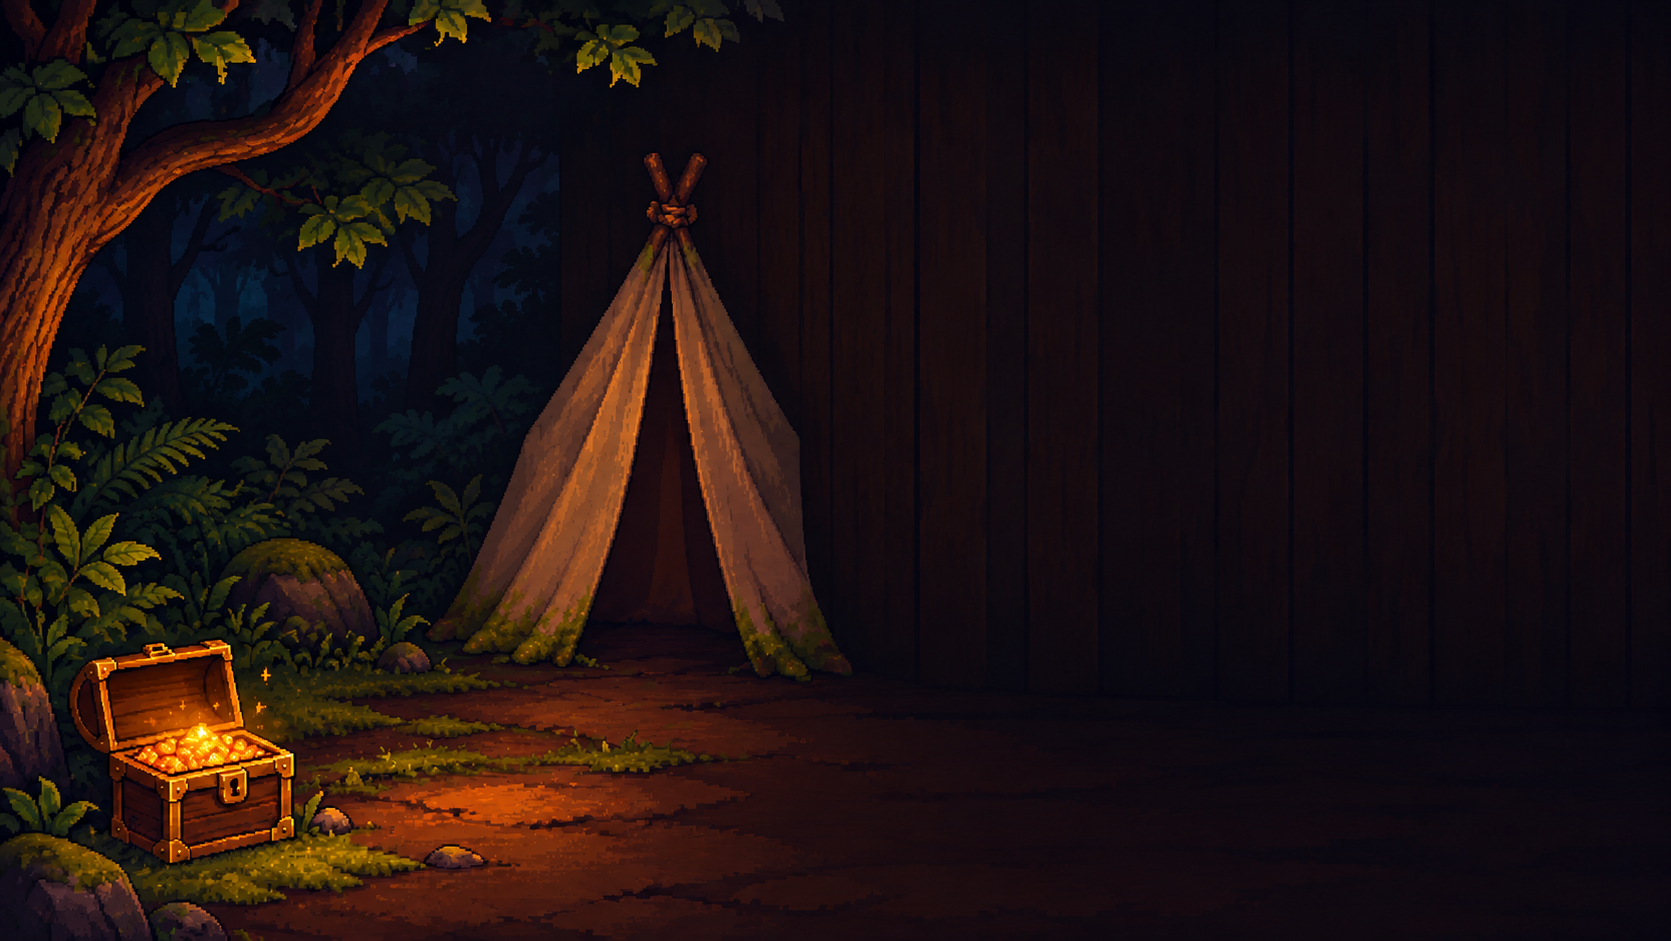
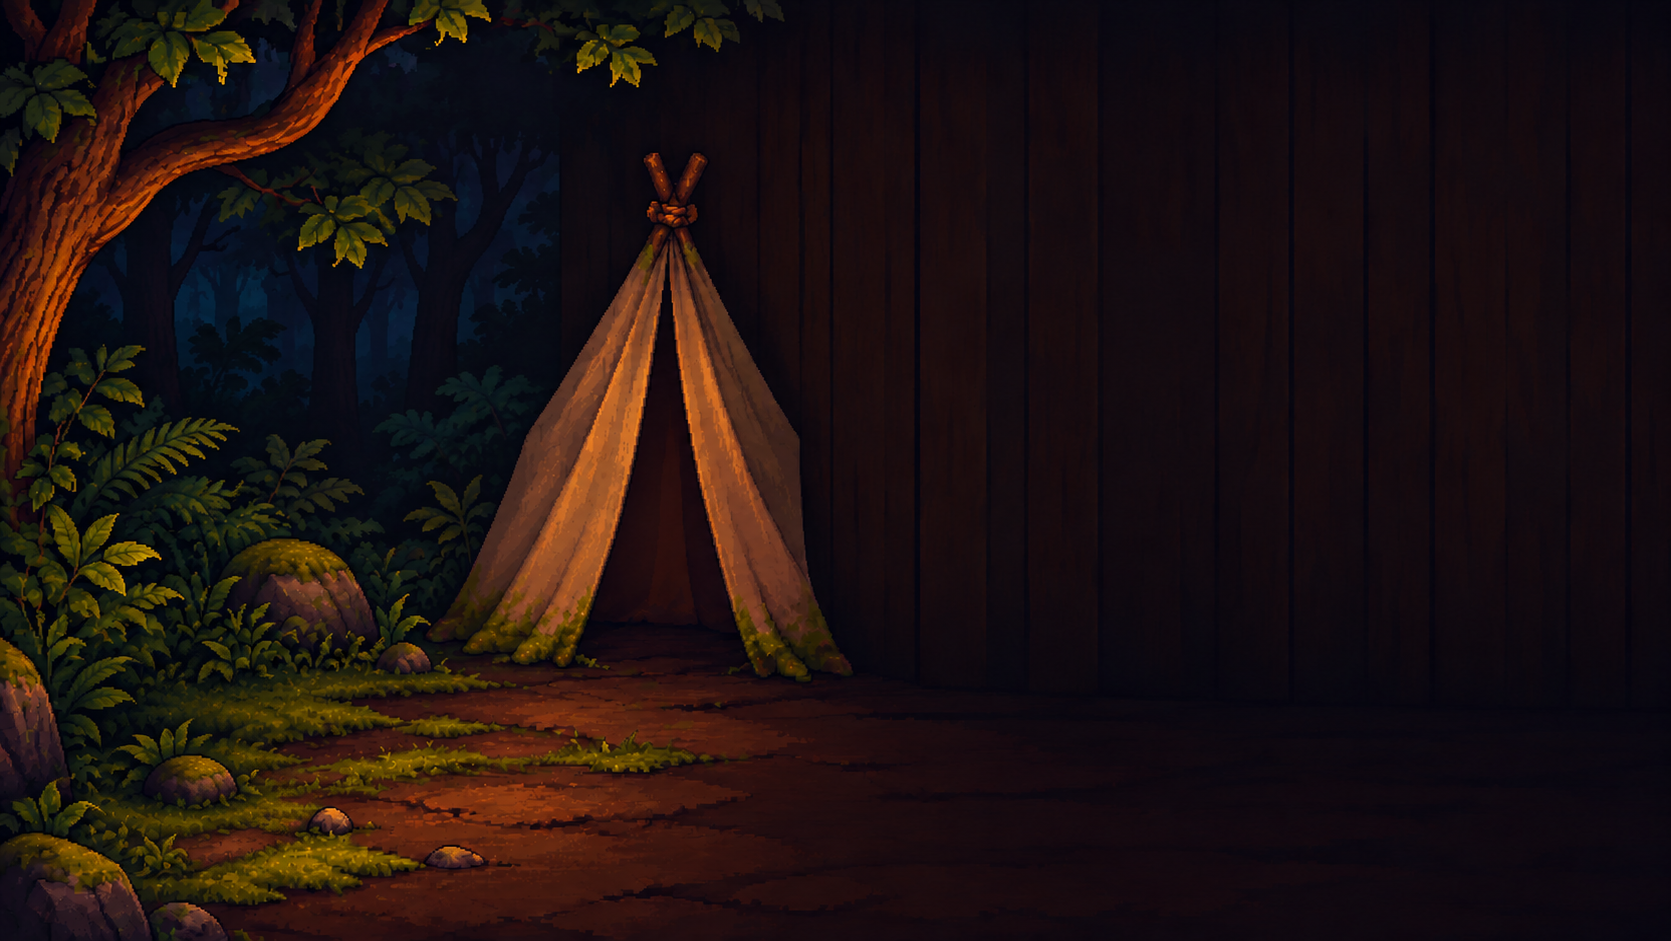
Remove reward chest and its artwork from shop

diff --git a/src/components/tanukiShop.css b/src/components/tanukiShop.css
@@ -5,15 +5,15 @@
 @keyframes tanuki-flicker{0%{opacity:.25;transform:scale(.75,.9)}100%{opacity:.95;transform:scale(1.25,1.15)}}
 .tanuki-header{position:absolute;top:3%;left:32%;right:3%;display:flex;align-items:center;justify-content:space-between;gap:20px}.tanuki-header h1,.tanuki-panel-heading{background:linear-gradient(#6d381f,#3a1c14);border:4px solid #9b5a32;box-shadow:inset 0 0 0 3px #2b130d,0 6px 0 #1a0c09,0 8px 16px #0009}.tanuki-header h1{margin:0;padding:12px 30px;color:#ffd08a;text-shadow:2px 3px #48200e;font-size:clamp(21px,2.6vw,42px);text-align:center;letter-spacing:.04em}.tanuki-wallet{display:flex;align-items:center;gap:7px;font:700 clamp(16px,1.8vw,26px) system-ui;color:#ffe3b4;text-shadow:2px 3px #25100c;white-space:nowrap}.tanuki-coin{width:25px;height:25px;object-fit:contain;image-rendering:pixelated;vertical-align:middle;flex:none}.tanuki-wallet .tanuki-coin{width:36px;height:36px}
 .tanuki-speech{position:absolute;top:19%;left:20%;z-index:2;background:#ffedcf;color:#28170f;border:3px solid #30190f;padding:9px 15px;border-radius:6px;font:700 clamp(13px,1.3vw,21px) system-ui;box-shadow:0 3px #20110c;white-space:nowrap}.tanuki-speech:after{content:'';position:absolute;bottom:-13px;left:18%;border-width:12px 12px 0 0;border-style:solid;border-color:#ffedcf transparent transparent transparent}.tanuki-merchant{position:absolute;top:30%;left:20%;width:42%;height:29%;border:0;background:transparent;border-radius:30%;cursor:pointer}.tanuki-merchant:hover{background:#ffd27a0d}
-.tanuki-chest{position:absolute;left:8%;top:68%;width:34%;height:25%;border:0;background:transparent;cursor:pointer}.tanuki-chest-label{position:absolute;bottom:0;left:0;right:0;white-space:nowrap;font:700 clamp(11px,1.2vw,19px) system-ui;color:#ffdc9b;text-shadow:2px 2px #291009}.tanuki-closed-chest{position:absolute;left:8%;right:5%;top:1%;bottom:15%;background:#29180f;border-radius:12px}.tanuki-closed-chest:before{content:'';position:absolute;left:9%;right:9%;top:14%;height:30%;background:#683516;border:5px solid #df9b35;border-radius:45% 45% 0 0;box-shadow:inset 0 5px #8b4c1c}.tanuki-closed-chest:after{content:'';position:absolute;left:9%;right:9%;top:43%;height:34%;background:#743b1b;border:5px solid #d69030;box-shadow:inset 0 -5px #49210e}.tanuki-closed-chest i{position:absolute;left:44%;top:43%;z-index:2;width:14%;height:17%;background:#e3ae3c;border:3px solid #54230b}
+
 .tanuki-back{position:absolute;bottom:3%;left:3%;z-index:3;border:3px solid #8a654b;background:#302b29;color:#ffe5ba;padding:9px 17px;font:700 clamp(14px,1.4vw,20px) system-ui;box-shadow:0 4px #150e0b;cursor:pointer}.tanuki-back:hover{background:#524236}
-.tanuki-panel{position:absolute;top:17%;bottom:4%;right:3%;width:51%;display:flex;flex-direction:column;background:#321b12eF;border:6px solid #704024;box-shadow:inset 0 0 0 4px #1b100c,0 8px 0 #140a07;padding:14px;overflow:hidden}.tanuki-panel-heading{text-align:center;padding:12px}.tanuki-panel-heading span{font:700 10px system-ui;letter-spacing:.2em;color:#d59e66}.tanuki-panel-heading h2{font-size:clamp(17px,2vw,32px);line-height:1.2;margin:5px 0;color:#ffd8a0;text-shadow:2px 3px #27120c}.tanuki-tabs{display:grid;grid-template-columns:1fr 1fr;gap:10px;margin:13px 0}.tanuki-tabs button,.tanuki-product button,.tanuki-dialog button{border:3px solid #7a4328;background:#452217;color:#ffdbab;padding:10px 12px;box-shadow:inset 0 0 0 2px #28130e,0 4px 0 #1c0d09;font:700 clamp(13px,1.35vw,20px) system-ui;cursor:pointer}.tanuki-tabs button[aria-selected=true]{background:#79401f;color:#fff1cf;border-color:#d59450}.tanuki-tabs span{color:#e6b45c;margin-left:8px}.tanuki-stock{flex:1;min-height:0;overflow:auto;display:flex;flex-direction:column;gap:10px}.tanuki-product{display:flex;gap:15px;align-items:center;background:#20120deF;border:3px solid #58311f;padding:13px}.tanuki-product-art{width:90px;flex:none;text-align:center}.tanuki-product-art img{width:100%;height:90px;object-fit:contain;image-rendering:pixelated}.tanuki-clock{color:#ffcd7d;font-size:47px;display:flex;flex-direction:column;line-height:1}.tanuki-clock b{font:700 18px system-ui;color:#80efa5}.tanuki-product-copy{flex:1;min-width:0}.tanuki-product h3{margin:0 0 5px;font:700 clamp(16px,1.5vw,23px) system-ui;color:#ffc479}.tanuki-product p{margin:0 0 7px;font:clamp(12px,1.1vw,16px)/1.45 system-ui;color:#f1decb}.tanuki-product small{font:12px system-ui;color:#c9aa81}.tanuki-product-bottom{display:flex;align-items:center;justify-content:space-between;gap:10px;margin-top:8px}.tanuki-product-bottom b{display:flex;align-items:center;gap:5px;white-space:nowrap;font:700 clamp(13px,1.2vw,18px) system-ui}.tanuki-product button{min-width:125px;padding:7px 20px}.tanuki-product button:hover:not(:disabled){background:#844828}.tanuki-product button:disabled{opacity:.45}.tanuki-purchase-message{font:12px system-ui;color:#eaca91;margin:8px 0 0;min-height:1em}.tanuki-empty{margin:auto;text-align:center;color:#f5d1a3;font:600 clamp(16px,1.5vw,22px) system-ui}.tanuki-empty span{font-size:48px;color:#e9b865}
-.tanuki-dialog-backdrop{position:fixed;inset:0;background:#0c0809d9;display:grid;place-items:center;z-index:20;padding:20px}.tanuki-dialog{width:min(430px,100%);text-align:center;background:#3a2015;border:5px solid #9b5a32;box-shadow:inset 0 0 0 4px #1d100b,0 15px 45px #000b;padding:32px;color:#ffe1b5}.tanuki-dialog-icon{font-size:46px;color:#ffbf5f}.tanuki-dialog h2{font-size:24px}.tanuki-dialog p{font:15px/1.6 system-ui;color:#ebd0ad}.tanuki-dialog button{margin-top:12px;font-size:14px}
-@media(max-width:760px){.tanuki-shop{display:flex;flex-direction:column;overflow-y:auto;padding:0 12px 20px}.tanuki-scene,.tanuki-scene-controls{position:relative;inset:auto;width:100%;height:280px;flex:none}.tanuki-scene-controls{position:absolute;top:0;left:0}.tanuki-scene:after{background:linear-gradient(180deg,transparent 70%,#100b0d)}.tanuki-header{position:absolute;top:10px;left:12px;right:12px}.tanuki-header h1{font-size:17px;padding:8px 10px}.tanuki-wallet{font-size:14px}.tanuki-wallet .tanuki-coin{width:26px;height:26px}.tanuki-speech{top:22%;font-size:12px;padding:6px 9px}.tanuki-back{position:relative;bottom:auto;left:auto;align-self:flex-start;order:3;margin:15px 0 0;font-size:13px}.tanuki-panel{position:relative;top:auto;right:auto;bottom:auto;width:100%;min-height:420px;max-height:none;padding:9px;flex:none}.tanuki-panel-heading h2{font-size:17px}.tanuki-tabs{margin:9px 0}.tanuki-tabs button{font-size:12px;padding:8px 4px}.tanuki-stock{overflow:visible}.tanuki-product{padding:10px;gap:8px}.tanuki-product-art{width:65px}.tanuki-product-art img{height:65px}.tanuki-product h3{font-size:15px}.tanuki-product p{font-size:12px}.tanuki-product button{min-width:75px;font-size:12px}.tanuki-chest-label{font-size:10px}.tanuki-dialog{padding:22px}}
+.tanuki-panel{position:absolute;top:17%;bottom:4%;right:3%;width:51%;display:flex;flex-direction:column;background:#321b12eF;border:6px solid #704024;box-shadow:inset 0 0 0 4px #1b100c,0 8px 0 #140a07;padding:14px;overflow:hidden}.tanuki-panel-heading{text-align:center;padding:12px}.tanuki-panel-heading span{font:700 10px system-ui;letter-spacing:.2em;color:#d59e66}.tanuki-panel-heading h2{font-size:clamp(17px,2vw,32px);line-height:1.2;margin:5px 0;color:#ffd8a0;text-shadow:2px 3px #27120c}.tanuki-tabs{display:grid;grid-template-columns:1fr 1fr;gap:10px;margin:13px 0}.tanuki-tabs button,.tanuki-product button,.tanuki-tabs button[aria-selected=true]{background:#79401f;color:#fff1cf;border-color:#d59450}.tanuki-tabs span{color:#e6b45c;margin-left:8px}.tanuki-stock{flex:1;min-height:0;overflow:auto;display:flex;flex-direction:column;gap:10px}.tanuki-product{display:flex;gap:15px;align-items:center;background:#20120deF;border:3px solid #58311f;padding:13px}.tanuki-product-art{width:90px;flex:none;text-align:center}.tanuki-product-art img{width:100%;height:90px;object-fit:contain;image-rendering:pixelated}.tanuki-clock{color:#ffcd7d;font-size:47px;display:flex;flex-direction:column;line-height:1}.tanuki-clock b{font:700 18px system-ui;color:#80efa5}.tanuki-product-copy{flex:1;min-width:0}.tanuki-product h3{margin:0 0 5px;font:700 clamp(16px,1.5vw,23px) system-ui;color:#ffc479}.tanuki-product p{margin:0 0 7px;font:clamp(12px,1.1vw,16px)/1.45 system-ui;color:#f1decb}.tanuki-product small{font:12px system-ui;color:#c9aa81}.tanuki-product-bottom{display:flex;align-items:center;justify-content:space-between;gap:10px;margin-top:8px}.tanuki-product-bottom b{display:flex;align-items:center;gap:5px;white-space:nowrap;font:700 clamp(13px,1.2vw,18px) system-ui}.tanuki-product button{min-width:125px;padding:7px 20px}.tanuki-product button:hover:not(:disabled){background:#844828}.tanuki-product button:disabled{opacity:.45}.tanuki-purchase-message{font:12px system-ui;color:#eaca91;margin:8px 0 0;min-height:1em}.tanuki-empty{margin:auto;text-align:center;color:#f5d1a3;font:600 clamp(16px,1.5vw,22px) system-ui}.tanuki-empty span{font-size:48px;color:#e9b865}
+
+@media(max-width:760px){.tanuki-shop{display:flex;flex-direction:column;overflow-y:auto;padding:0 12px 20px}.tanuki-scene,.tanuki-scene-controls{position:relative;inset:auto;width:100%;height:280px;flex:none}.tanuki-scene-controls{position:absolute;top:0;left:0}.tanuki-scene:after{background:linear-gradient(180deg,transparent 70%,#100b0d)}.tanuki-header{position:absolute;top:10px;left:12px;right:12px}.tanuki-header h1{font-size:17px;padding:8px 10px}.tanuki-wallet{font-size:14px}.tanuki-wallet .tanuki-coin{width:26px;height:26px}.tanuki-speech{top:22%;font-size:12px;padding:6px 9px}.tanuki-back{position:relative;bottom:auto;left:auto;align-self:flex-start;order:3;margin:15px 0 0;font-size:13px}.tanuki-panel{position:relative;top:auto;right:auto;bottom:auto;width:100%;min-height:420px;max-height:none;padding:9px;flex:none}.tanuki-panel-heading h2{font-size:17px}.tanuki-tabs{margin:9px 0}.tanuki-tabs button{font-size:12px;padding:8px 4px}.tanuki-stock{overflow:visible}.tanuki-product{padding:10px;gap:8px}.tanuki-product-art{width:65px}.tanuki-product-art img{height:65px}.tanuki-product h3{font-size:15px}.tanuki-product p{font-size:12px}.tanuki-product button{min-width:75px;font-size:12px}}
 @media(prefers-reduced-motion:reduce){.tanuki-flame{animation:none;opacity:.5}}
 .tanuki-shop.reduced-motion .tanuki-flame{animation:none;opacity:.5}
-@media(min-width:761px) and (max-height:850px){.tanuki-panel{top:16%;padding:9px}.tanuki-panel-heading{padding:6px}.tanuki-panel-heading h2{margin:3px 0;font-size:clamp(17px,1.75vw,28px)}.tanuki-tabs{margin:8px 0}.tanuki-tabs button{padding:7px}.tanuki-product{padding:8px;gap:10px}.tanuki-product-art{width:75px}.tanuki-product-art img{height:70px}.tanuki-product p{margin-bottom:4px}.tanuki-product-bottom{margin-top:4px}.tanuki-product button{padding:5px 16px}.tanuki-purchase-message{margin-top:5px}.tanuki-chest-label{bottom:9%}}
-.tanuki-clock svg{display:block;width:48px;height:55px;margin:0 auto;image-rendering:pixelated}.tanuki-closed-chest,.tanuki-closed-chest:before{border-radius:0}
+@media(min-width:761px) and (max-height:850px){.tanuki-panel{top:16%;padding:9px}.tanuki-panel-heading{padding:6px}.tanuki-panel-heading h2{margin:3px 0;font-size:clamp(17px,1.75vw,28px)}.tanuki-tabs{margin:8px 0}.tanuki-tabs button{padding:7px}.tanuki-product{padding:8px;gap:10px}.tanuki-product-art{width:75px}.tanuki-product-art img{height:70px}.tanuki-product p{margin-bottom:4px}.tanuki-product-bottom{margin-top:4px}.tanuki-product button{padding:5px 16px}.tanuki-purchase-message{margin-top:5px}}
+.tanuki-clock svg{display:block;width:48px;height:55px;margin:0 auto;image-rendering:pixelated}
 /* Eight redrawn pixel-art views follow the uploaded stall's 360° turn. */
 .tanuki-turn-sprite{position:absolute;top:10%;left:5%;width:78%;aspect-ratio:1;background-repeat:no-repeat;background-size:400% 200%;image-rendering:pixelated}
 @media(max-width:760px){.tanuki-turn-sprite{width:65%;top:4%;left:8%}}

diff --git a/src/components/TanukiShop.tsx b/src/components/TanukiShop.tsx
@@ -10,8 +10,6 @@ export function TanukiShop({engine, hud}: {engine: GameEngine|null; hud: HUDStat
   const vi = hud.language === 'vi';
   const [tab, setTab] = useState<'items'|'outfits'>('items');
   const [speech, setSpeech] = useState<'welcome'|'shop'|'bye'>('welcome');
-  const [chestOpen, setChestOpen] = useState(true);
-  const [chestDialog, setChestDialog] = useState(false);
   const [message, setMessage] = useState('');
   const [greeting, setGreeting] = useState({text: vi?'Kính chào!':'Welcome!', id:0});
   const [visible, setVisible] = useState(true);
@@ -32,12 +30,6 @@ export function TanukiShop({engine, hud}: {engine: GameEngine|null; hud: HUDStat
     },1000/12);
     return ()=>window.clearInterval(timer);
   },[wave,hud.reducedMotion]);
-  useEffect(() => {
-    if (!chestDialog) return;
-    const onKey = (event: KeyboardEvent) => { if (event.key === 'Escape') { event.preventDefault(); event.stopImmediatePropagation(); setChestDialog(false); } };
-    window.addEventListener('keydown', onKey, true);
-    return () => window.removeEventListener('keydown', onKey, true);
-  }, [chestDialog]);
   const purchase = (kind: 'time'|'ring') => {
     if (!engine) return;
     if(hud.coins < (kind==='time'?5:30)){talk(vi?'Chưa đủ xu rồi… Hẹn bạn lần sau nhé!':'Not enough coins… Come back soon!');return;}
@@ -50,10 +42,7 @@ export function TanukiShop({engine, hud}: {engine: GameEngine|null; hud: HUDStat
     <div className="tanuki-scene-controls">
       <div className="tanuki-speech" aria-live="polite" hidden={!visible}>{greeting.text}</div>
       <button className="tanuki-merchant" aria-label={vi?'Trò chuyện với Tanuki':'Talk to Tanuki'} onClick={()=>{setSpeech(speech === 'shop' ? 'welcome' : 'shop');talk(vi?(speech==='shop'?'Hôm nay bạn muốn tìm món gì?':'Mời mua hàng!'):(speech==='shop'?'What are you looking for today?':'Have a look!'),true);}}/>
-      <button className={`tanuki-chest ${chestOpen?'':'is-closed'}`} aria-label={vi?'Mở rương thưởng':'Open reward chest'} onClick={()=>{setChestOpen(false);setChestDialog(true);}}>
-        {!chestOpen && <span className="tanuki-closed-chest" aria-hidden="true"><i/></span>}
-        <span className="tanuki-chest-label">{vi?'RƯƠNG THƯỞNG':'REWARD CHEST'}</span>
-      </button>
+
     </div>
     <header className="tanuki-header"><h1>{vi?'KHO BÁU THỜI GIAN':'TIME TREASURES'}</h1><div className="tanuki-wallet"><Coin/> <strong>{hud.coins.toLocaleString()}</strong> {vi?'xu':'coins'}</div></header>
     <button className="tanuki-back" onMouseEnter={()=>talk(vi?'Hẹn gặp lại!':'See you again!',true)} onFocus={()=>talk(vi?'Hẹn gặp lại!':'See you again!',true)} onClick={()=>engine?.goToLobby()}>‹ {vi?'VỀ SẢNH':'BACK TO LOBBY'}</button>
@@ -72,6 +61,5 @@ export function TanukiShop({engine, hud}: {engine: GameEngine|null; hud: HUDStat
       </div>
       <p className="tanuki-purchase-message" role="status">{message}</p>
     </main>
-    {chestDialog && <div className="tanuki-dialog-backdrop" onClick={()=>setChestDialog(false)}><section className="tanuki-dialog" role="dialog" aria-modal="true" aria-labelledby="tanuki-chest-title" onClick={e=>e.stopPropagation()}><span className="tanuki-dialog-icon">✦</span><h2 id="tanuki-chest-title">{vi?'RƯƠNG THƯỞNG':'REWARD CHEST'}</h2><p>{vi?'Rương thưởng đang được chuẩn bị. Hẹn gặp bạn khi rương mở nhé!':'The reward chest is being prepared. Come back when it opens!'}</p><button autoFocus onClick={()=>setChestDialog(false)}>{vi?'QUAY LẠI CỬA HÀNG':'BACK TO SHOP'}</button></section></div>}
   </div>;
 }

diff --git a/src/components/CampaignUI.tsx b/src/components/CampaignUI.tsx
@@ -128,7 +128,7 @@ const latestNews = { title: 'Quầy Tanuki chuyển động', description: 'Tanu
 
 export function Notifications({ close }: { close: () => void }) {
   return localize(<div className="modal-backdrop"><div className="panel news-panel"><div className="panel-top"><span className="eyebrow gold">THÔNG BÁO TRÒ CHƠI</span><button className="icon-close" aria-label="Đóng thông báo" onClick={close}><X size={18}/></button></div><h2>Tiếng vọng mới trong rừng</h2>
-    <article className="news-feature"><span>MỚI · 09.11.2026</span><div><h3>{latestNews.title}</h3><p>{latestNews.description}</p></div></article><article><time>08.11.2026</time><div><h3>Cửa hàng Tanuki mới</h3><p>Ghé quầy Tanuki để mua vật phẩm, trò chuyện và khám phá rương thưởng đang chuẩn bị.</p></div></article><article><time>08.11.2026</time><div><h3>Diện mạo mới cho xu</h3><p>Xu gấu mèo pixel đã xuất hiện trong cửa hàng, túi đồ và phần thưởng của game.</p></div></article><article><time>08.11.2026</time><div><h3>Nhẫn tăng giới hạn</h3><p>Mua nhẫn trong cửa hàng với giá 30 xu để tăng giới hạn lên 6 Echo trong một màn. Hiệu ứng không cộng dồn.</p></div></article><article><time>08.11.2026</time><div><h3>Thứ tự thu hồi Echo</h3><p>Nhấn X để thu hồi Echo đã ở trên sân lâu nhất trước, theo thứ tự triệu hồi.</p></div></article>
+    <article className="news-feature"><span>MỚI · 09.11.2026</span><div><h3>{latestNews.title}</h3><p>{latestNews.description}</p></div></article><article><time>08.11.2026</time><div><h3>Cửa hàng Tanuki mới</h3><p>Ghé quầy Tanuki để mua vật phẩm và trò chuyện.</p></div></article><article><time>08.11.2026</time><div><h3>Diện mạo mới cho xu</h3><p>Xu gấu mèo pixel đã xuất hiện trong cửa hàng, túi đồ và phần thưởng của game.</p></div></article><article><time>08.11.2026</time><div><h3>Nhẫn tăng giới hạn</h3><p>Mua nhẫn trong cửa hàng với giá 30 xu để tăng giới hạn lên 6 Echo trong một màn. Hiệu ứng không cộng dồn.</p></div></article><article><time>08.11.2026</time><div><h3>Thứ tự thu hồi Echo</h3><p>Nhấn X để thu hồi Echo đã ở trên sân lâu nhất trước, theo thứ tự triệu hồi.</p></div></article>
     <article><time>08.11.2026</time><div><h3>Chiêu gai băng của boss</h3><p>Vòng phép băng xuất hiện cảnh báo, sau đó gai băng trồi lên gây sát thương rồi tan biến.</p></div></article>
     <article><time>08.11.2026</time><div><h3>Echo tự chiến đấu</h3><p>Echo thu hút kẻ địch, tự chiến đấu trong phạm vi gần và mất ổn định theo sát thương và chỉ bị thu hồi khi ổn định về 0.</p></div></article>
     <article><time>08.11.2026</time><div><h3>Hiệu ứng nổ băng của boss</h3><p>Vòng băng xoay rồi nổ thành những mảnh xanh khi Thủ Vệ Băng tung chiêu.</p></div></article>

diff --git a/src/i18n.ts b/src/i18n.ts
@@ -50,7 +50,7 @@ const pairs: [string, string][] = [
   ['Tanuki’s animated stall', 'Quầy Tanuki chuyển động'],
   ['Tanuki and the stall now turn in a new pixel-art animation when you talk.', 'Tanuki và quầy hàng có chuyển động xoay mới theo phong cách pixel khi bạn trò chuyện.'],
   ['The new Tanuki shop', 'Cửa hàng Tanuki mới'],
-  ['Visit Tanuki to buy items, chat and discover the reward chest in preparation.', 'Ghé quầy Tanuki để mua vật phẩm, trò chuyện và khám phá rương thưởng đang chuẩn bị.'],
+  ['Visit Tanuki to buy items and chat.', 'Ghé quầy Tanuki để mua vật phẩm và trò chuyện.'],
   ['A new look for coins', 'Diện mạo mới cho xu'],
   ['Pixel raccoon coins now appear in the shop, inventory and game rewards.', 'Xu gấu mèo pixel đã xuất hiện trong cửa hàng, túi đồ và phần thưởng của game.'],
   ['Echo limit ring', 'Nhẫn tăng giới hạn'],
